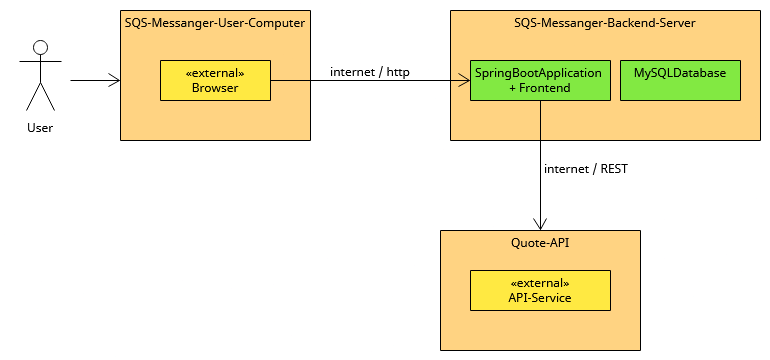
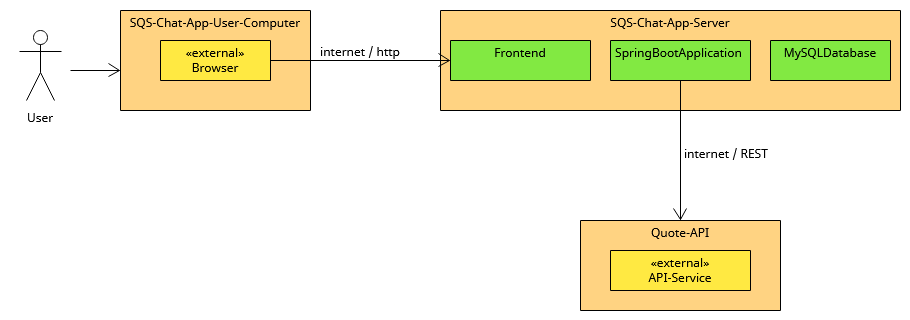
updated the documentation (arc42) and App-Name

diff --git a/docs/pages/arc42/4.SolutionStrategy.md b/docs/pages/arc42/4.SolutionStrategy.md
@@ -1,8 +1,8 @@
-4. Solution Strategy
+# 4. Solution Strategy
 
-| Goal/Requirement                                          | Architectural Approach                                                                  | Details                                                                                               |
-|-----------------------------------------------------------|-----------------------------------------------------------------------------------------|-------------------------------------------------------------------------------------------------------|
-| Database can be changed                                   | The use of "spring-boot-starter-data-jpa" enables a quick change of Database (rational) | [application.properties](../../../sqsbackend/src/main/resources/application.properties)               |
-| No critical dependency from 3rd-Party-Systems             | If the Quote-Service is not returning quotes, a standard quote is used.                 | [QuoteService](../../../sqsbackend/src/main/java/com/studheupno/sqsbackend/service/QuoteService.java) |
-| Entire Project can be launched with single command        | Entire project can be launched with docker-compose-file                                 | [Dockerfile](../../../compose.yaml)                                                                   |
-| Project can be lauchd without prerequisites (only docker) | Project can be launched within docker-containers via docker-compose                     | [Dockerfile](../../../compose.yaml)                                                                   |
+| Goal/Requirement                                             | Architectural Approach                                                                  | Details                                                                                               |
+|--------------------------------------------------------------|-----------------------------------------------------------------------------------------|-------------------------------------------------------------------------------------------------------|
+| Database can be changed                                      | The use of "spring-boot-starter-data-jpa" enables a quick change of Database (rational) | [application.properties](../../../sqsbackend/src/main/resources/application.properties)               |
+| No critical dependency from 3rd-Party-Systems                | If the Quote-Service is not returning quotes, a standard quote is used.                 | [QuoteService](../../../sqsbackend/src/main/java/com/studheupno/sqsbackend/service/QuoteService.java) |
+| Entire Project can be launched with single command           | Entire project can be launched with docker-compose-file                                 | [Dockerfile](../../../compose.yaml)                                                                   |
+| Project can be launched without prerequisites (only docker)  | Project can be launched within docker-containers via docker-compose                     | [Dockerfile](../../../compose.yaml)                                                                   |

diff --git a/docs/pages/arc42/6.RuntimeView.md b/docs/pages/arc42/6.RuntimeView.md
@@ -1,8 +1,10 @@
 # 6. Runtime View
 
-## 6.1 Registering and Login
-### Explanation:
+## 6.1 Registration and Login
+![RegisterAndLogin](Files/6/RegisterAndLogin.svg)
+[RegisterAndLogin](Files/6/RegisterAndLogin.txt)
 
+### Registration:
 1. User wants to create new account
 2. Frontend checks for style conditions
 3. Frontend sends register-request to backend
@@ -11,7 +13,7 @@
 6. Backend returns success-message
 7. Frontend returns success-response
 
-
+### Login:
 1. User wants to log in
 2. Frontend checks for style conditions
 3. Frontend sends login-request to backend
@@ -20,9 +22,11 @@
 6. Backend returns jwt-token
 7. Frontend saves token
 
-## 6.2 View feed and create new message
-### Explanation:
+## 6.2 Viewing the Feed and Creating a new message
+![ViewFeedAndCreateNewMessage](Files/6/ViewFeedAndCreateNewMessage.svg)
+[ViewFeedAndCreateNewMessage](Files/6/ViewFeedAndCreateNewMessage.txt)
 
+### Viewing the Feed:
 1. User opens FeedView
 2. Frontend sends getAllMessages-request to backend (with the jwt-Token)
 3. Backend sends getAllMessages-query to database
@@ -31,7 +35,7 @@
 6. Backend returns list of message-responses
 7. Frontend shows feed with messages
 
-
+### Creating a new message:
 1. User wants to create new message
 2. Frontend checks for style conditions
 3. Frontend sends CreateMessage-Request to Backend with the jwt-Token
@@ -42,9 +46,11 @@
 8. Creates message-response
 9. Backend returns message-response
 
-## 6.2 Like message and create comment for message
-### Explanation:
+## 6.2 Liking a Message and creating comment for Message
+![LikeMessageAndCreateCommentForMessage](Files/6/LikeMessageAndCreateCommentForMessage.svg)
+[LikeMessageAndCreateCommentForMessage](Files/6/LikeMessageAndCreateCommentForMessage.txt)
 
+### Liking a Message:
 1. User presses the like button of a message
 2. Frontend sends like-request to backend with the jwt-Token
 3. Backend checks if the token is valid and if the user and the message exist in the database
@@ -52,7 +58,7 @@
 5. Backend returns a message-response of the updated message
 6. Frontend tells the user that the like was successful
 
-
+### Creating new Comment:
 1. User wants to create comment
 2. Frontend sends comment-request with toke to backend with the jwt-Token
 3. Backend checks if the token is valid and if the user and the message exist in the database

diff --git a/docs/pages/arc42/2.Constraints.md b/docs/pages/arc42/2.Constraints.md
@@ -1,7 +1,12 @@
-# 2. Constraints for SQS-Messanger
+# 2. Constraints for the SQS-Chat-App
+The project is limited in its freedom regarding design, implementation, and the development process by the following constraints:
 
-## SQS-Messanger shall be:
-- Platform-independent and should run on the major operating systems (Windows™, Linux, and Mac-OS™)
-- Integrated with the Gradle build tool (Backend) and npm (Frontend)
-- Runnable from the browser (frontend)
-- Only use free software (no costs for using it)
+| Constraint               | Details                                                                                             |
+|--------------------------|-----------------------------------------------------------------------------------------------------|
+| Platform-independent     | Should run on the major operating systems (Windows™, Linux, and Mac-OS™)                            |
+| Programming language     | The project must be written in one or more of the following languages: Java, C#, python, typescript |
+| Data-persistence         | A Database is used to guaranty persistence of User-Data.                                            |
+| Web-application          | Userinteraction (Frontend) happens in a Webbrowser.                                                 |
+| Usage of docker-compose  | Entier service can be started with docker-compose.                                                  |
+| No long-term development | The project is a demo and is therefore not continuously developed.                                  |
+| No costs                 | Only use free software (no costs for using it)                                                      |

diff --git a/docs/pages/arc42/7.DeploymentView.md b/docs/pages/arc42/7.DeploymentView.md
@@ -1,17 +1,18 @@
 # 7. Deployment View
 
-The following diagram shows the participating computers (nodes) with their technical connections plus the major artifacts of SQS-Messanger.
+The following diagram shows the participating computers (nodes) with their technical connections plus the major 
+artifacts of the SQS-Chat-App.
 
 ![Deployment View](Files/7/Deployment_View.png)
 
 [Deployment View](Files/7/Deployment_View.uxf)
 
-| Node / Artifact              | Description                  |
-|------------------------------|------------------------------|
-| SQS-Messanger-Backend-Server | Service environment          |
-| SQS-Messanger-User-Computer  | User environment             |
-| Quote-API                    | 3rd-Party environment        |
-| SpringBootApplication        | Backend (Java)(owned)        |
-| Frontend                     | Frontend (Typescript)(owned) |
-| MySQLDatabase                | Database (MySQL)(owned)      |
-| compose.yaml                 | Describes and builds Service |
+| Node / Artifact          | Description                           |
+|--------------------------|---------------------------------------|
+| SQS-Chat-App-Server      | Service environment                   |
+| SQS-Chat-App-Computer    | User environment                      |
+| Quote-API                | 3rd-Party environment                 |
+| SpringBootApplication    | Backend (Java)(owned)                 |
+| Frontend                 | Frontend (Typescript)(owned)          |
+| MySQLDatabase            | Database (MySQL)(owned)               |
+| compose.yaml             | Describes and builds Service (owned)  |

diff --git a/docs/pages/arc42/3.TechnicalContext.md b/docs/pages/arc42/3.TechnicalContext.md
@@ -1,15 +1,14 @@
 # 3. Technical Context View
 
-The following diagram shows the participating computers (nodes) with their technical connections plus the major artifacts of SQS-Messanger.
+The following diagram shows the participating computers (nodes) with their technical connections plus the major artifacts of the SQS-Chat-App.
 
 ![Technical_Context_View](Files/3/Technical_Context_View.png)
-
 [Technical_Context_View](Files/3/Technical_Context_View.uxf)
 
 | Node / Artifact                  | Description                                      |
 |----------------------------------|--------------------------------------------------|
-| SQS-Messanger-Backend-Server     | where  takes place                               |
-| SQS-Messanger-User-Computer      | where user physically interacts with Messenger   |
+| SQS-Chat-App-Server              | where ... takes place                            |
+| SQS-Chat-App-User-Computer       | where user physically interacts with Chat-App    |
 | Quote-API                        | where Quotes are taken from                      |
 | SpringBootApplication + Frontend | Backend (Java) and Frontend (Typescript) (owned) |
 | MySQLDatabase                    | Database (MySQL) (owned)                         |

diff --git a/docs/pages/arc42/5.BuildingBlockView.md b/docs/pages/arc42/5.BuildingBlockView.md
@@ -2,7 +2,6 @@
 ## 5.1 Level 1
 
 ![Building Blocks - Level 1](Files/5/Level_1.png)
-
 [Building Blocks - Level 1](Files/5/Level_1.uxf)
 
 | Building block | Description                                                                                          |
@@ -17,7 +16,6 @@
 ## 5.2 Level 2 (Backend)
 
 ![Building Blocks - Level 1](Files/5/Level_2(B).png)
-
 [Building Blocks - Level 1](Files/5/Level_2(B).uxf)
 
 | Building block | Description                                                     |

diff --git a/docs/pages/index.md b/docs/pages/index.md
@@ -1,6 +1,6 @@
-# SQS-Messanger-App
+# SQS-Chat-App
 
-Welcome to the documentation for the "SQS Messenger App." This documentation consists of the following parts:
+Welcome to the documentation for the "SQS-Chat-App." This documentation consists of the following parts:
 
 - [Introduction](introduction.md)
 - [Installation](installation.md)

diff --git a/docs/pages/api.md b/docs/pages/api.md
@@ -1,6 +1,6 @@
 # API-Dokumentation
 
-The API of the SQS-Messanger-App allows for the registration / log in of Users, creation, pulling and liking of Messages
+The API of the SQS-Chat-App allows for the registration / log in of Users, creation, pulling and liking of Messages
 and the creation of new Comments.
 
 ## 1. Authentication
